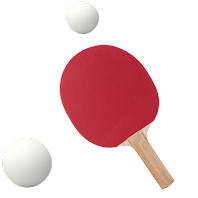
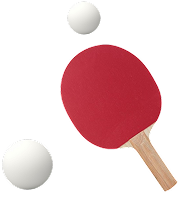
fix the title

diff --git a/src/components/home/section-header.tsx b/src/components/home/section-header.tsx
@@ -1,11 +1,14 @@
-
-
-
 export default function SectionHeader({ title, id }: { title: string; id: string }) {
   return (
-    <div className="flex items-center gap-2 w-full mt-8 mb-5" id={id}>
-      <span className="h-2.5 w-30 bg-accent" />
-      <h2 className="text-xl  text-secondary-foreground font-semibold">{title}</h2>
+    <div 
+      className="flex items-center gap-2 sm:gap-4 w-full mt-12 mb-6 md:mt-20 md:mb-8 lg:mt-28 lg:mb-12" 
+      id={id}
+    >
+      <span className="h-1.5 sm:h-2.5 lg:h-3 w-16 sm:w-20 md:w-30 lg:w-30 bg-accent shrink-0" />
+      
+      <h2 className="text-2xl sm:text-3xl md:text-4xl lg:text-4xl xl:text-7.5xl text-secondary-foreground font-black italic uppercase tracking-tight leading-none">
+        {title}
+      </h2>
     </div>
   );
 }
